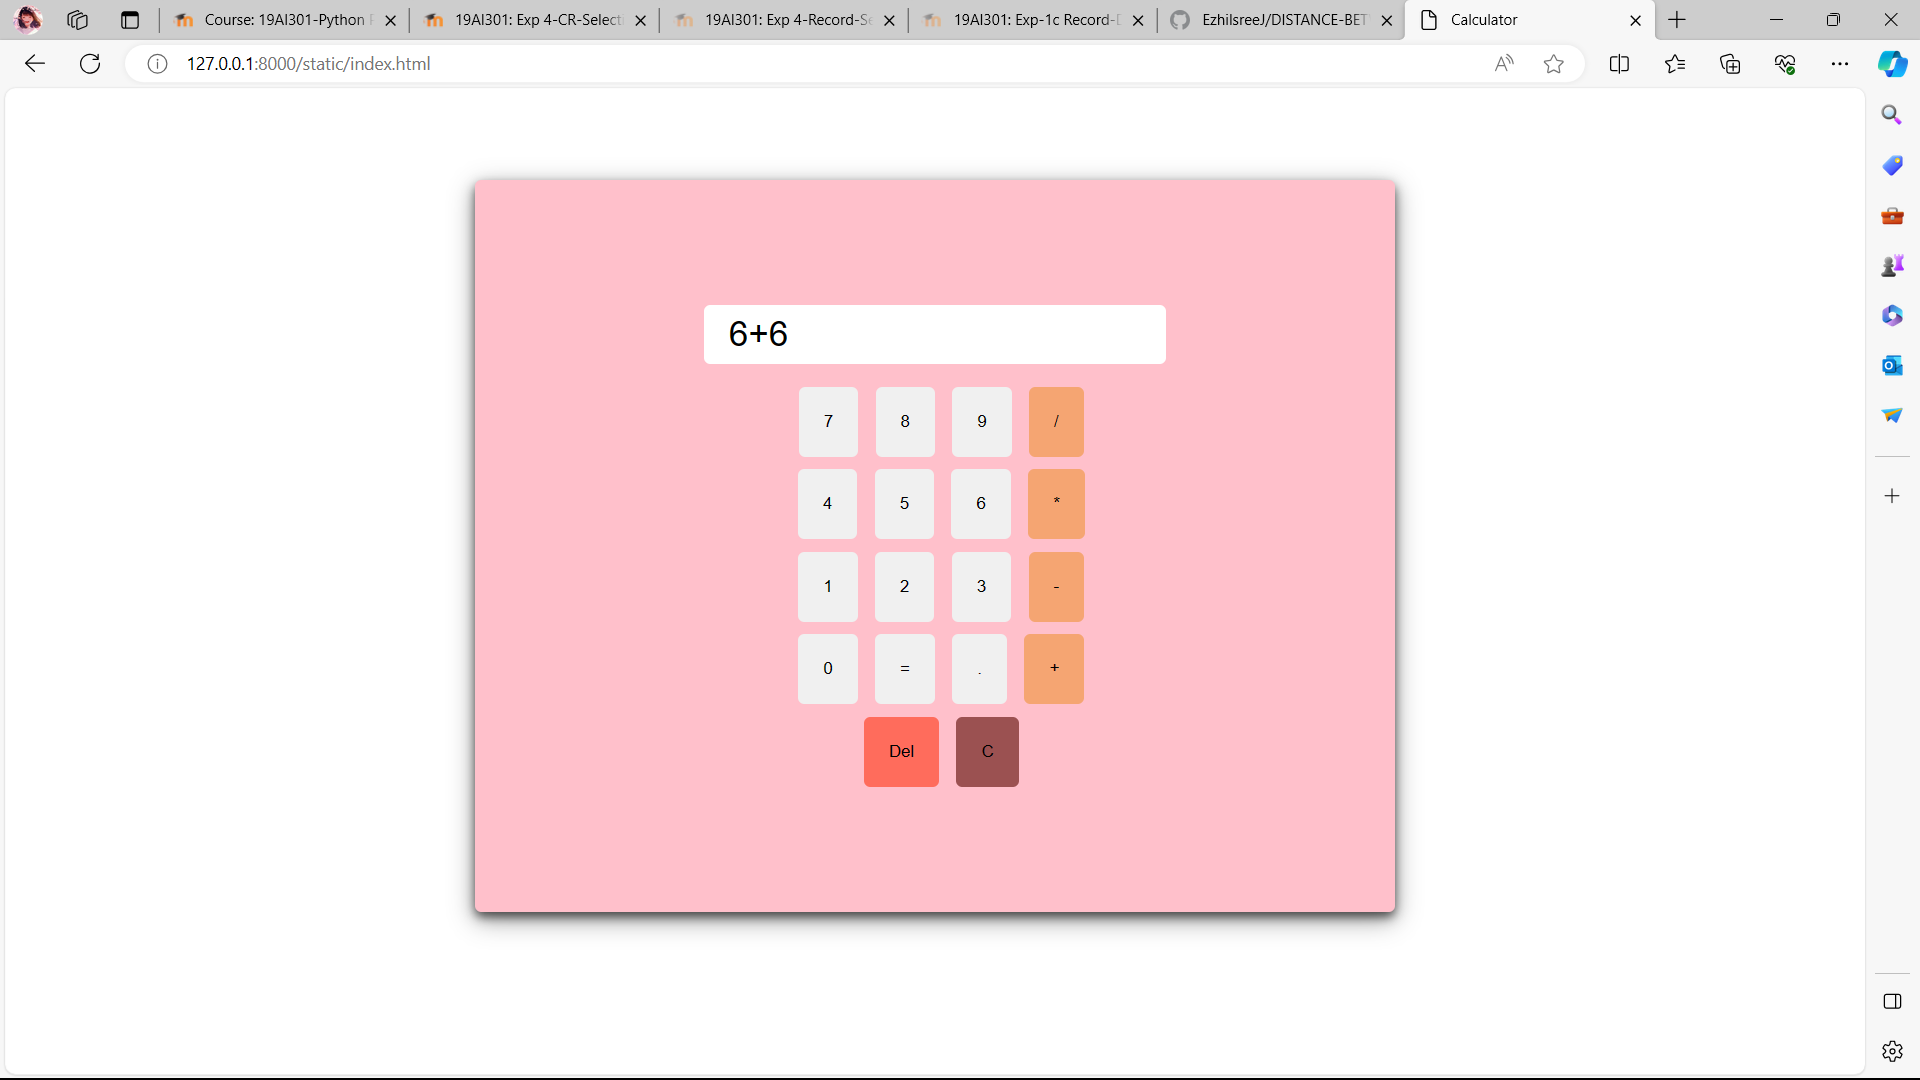
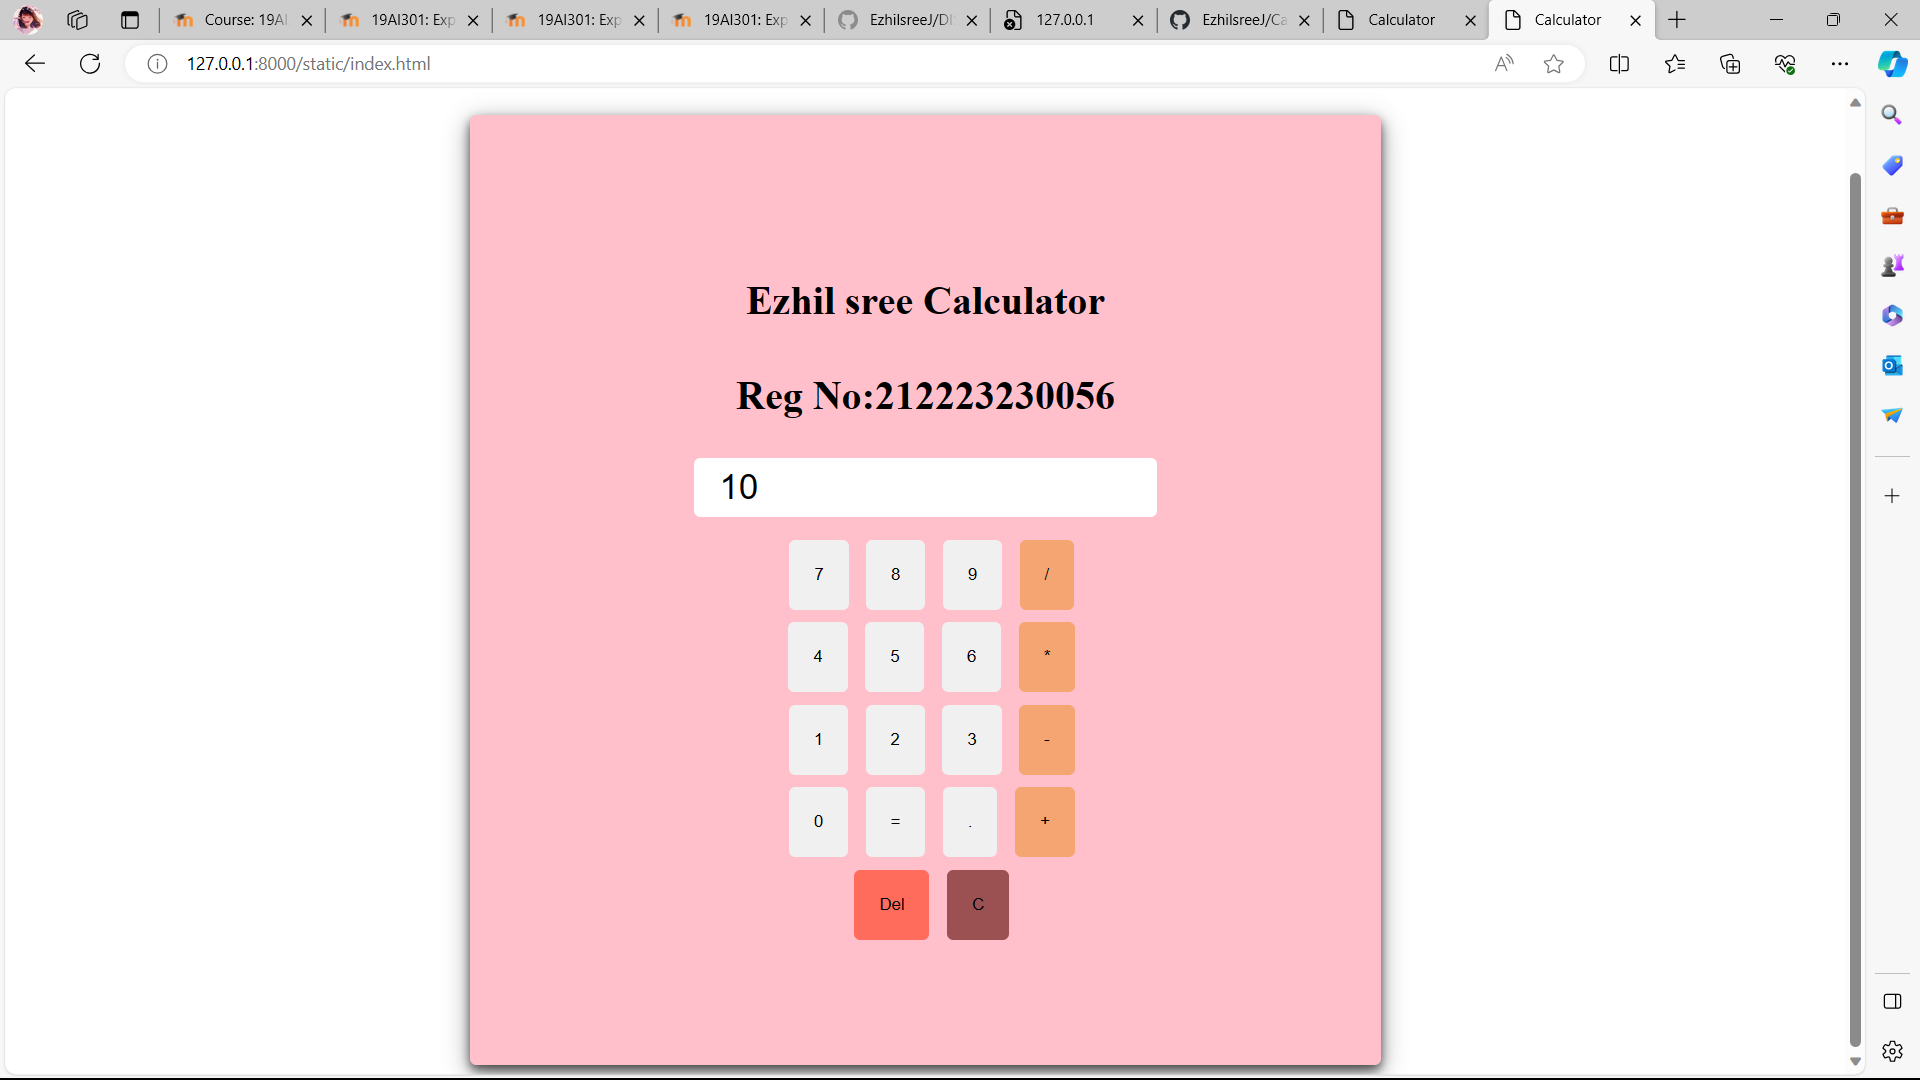
Success

diff --git a/calc/calcApp/static/index.html b/calc/calcApp/static/index.html
@@ -95,8 +95,8 @@
 
 <body>
    <div class="App-container">
-
-
+      <h1>Ezhil sree Calculator</h1>
+      <h1>Reg No:212223230056</h1>
       <input type="text" id="result" placeholder="Enter Value..." readonly="" />
       <div>
          <input type="button" id="numberButton" value="7" onclick="display('7')" />

diff --git a/README.md b/README.md
@@ -123,8 +123,8 @@ Publish the website in the given URL.
 
 <body>
    <div class="App-container">
-
-
+      <h1>Ezhil sree Calculator</h1>
+      <h1>Reg No:212223230056</h1>
       <input type="text" id="result" placeholder="Enter Value..." readonly="" />
       <div>
          <input type="button" id="numberButton" value="7" onclick="display('7')" />
